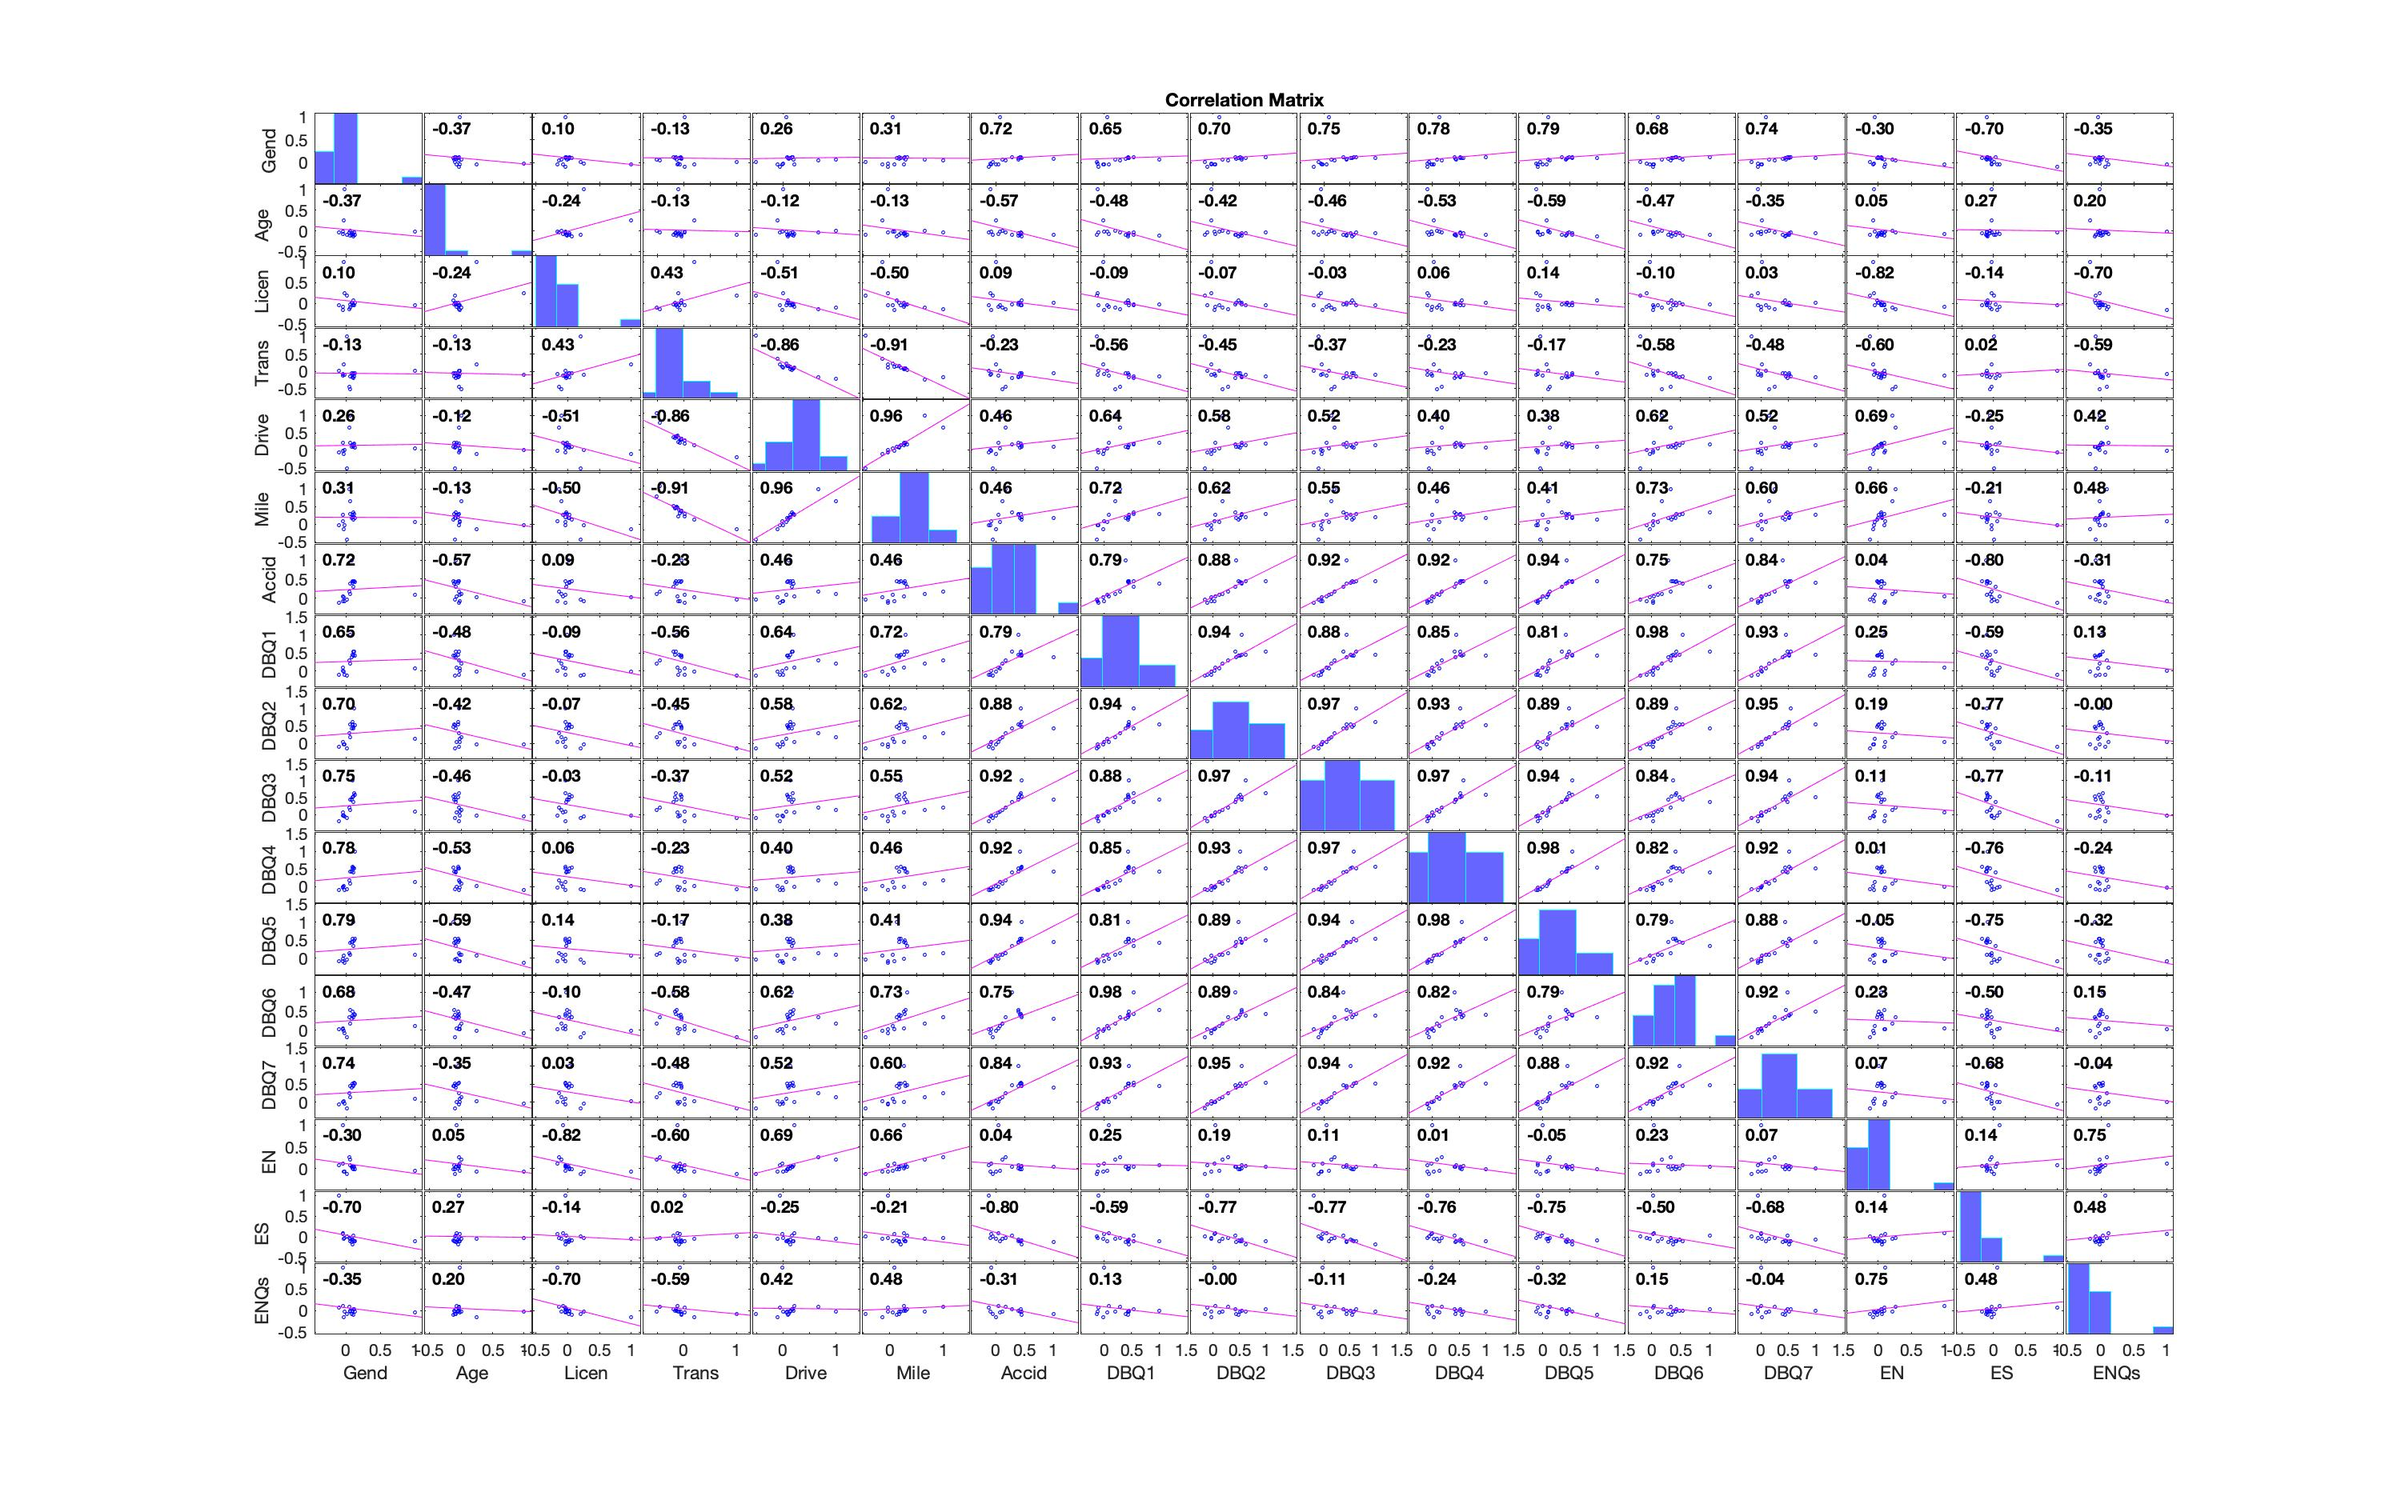
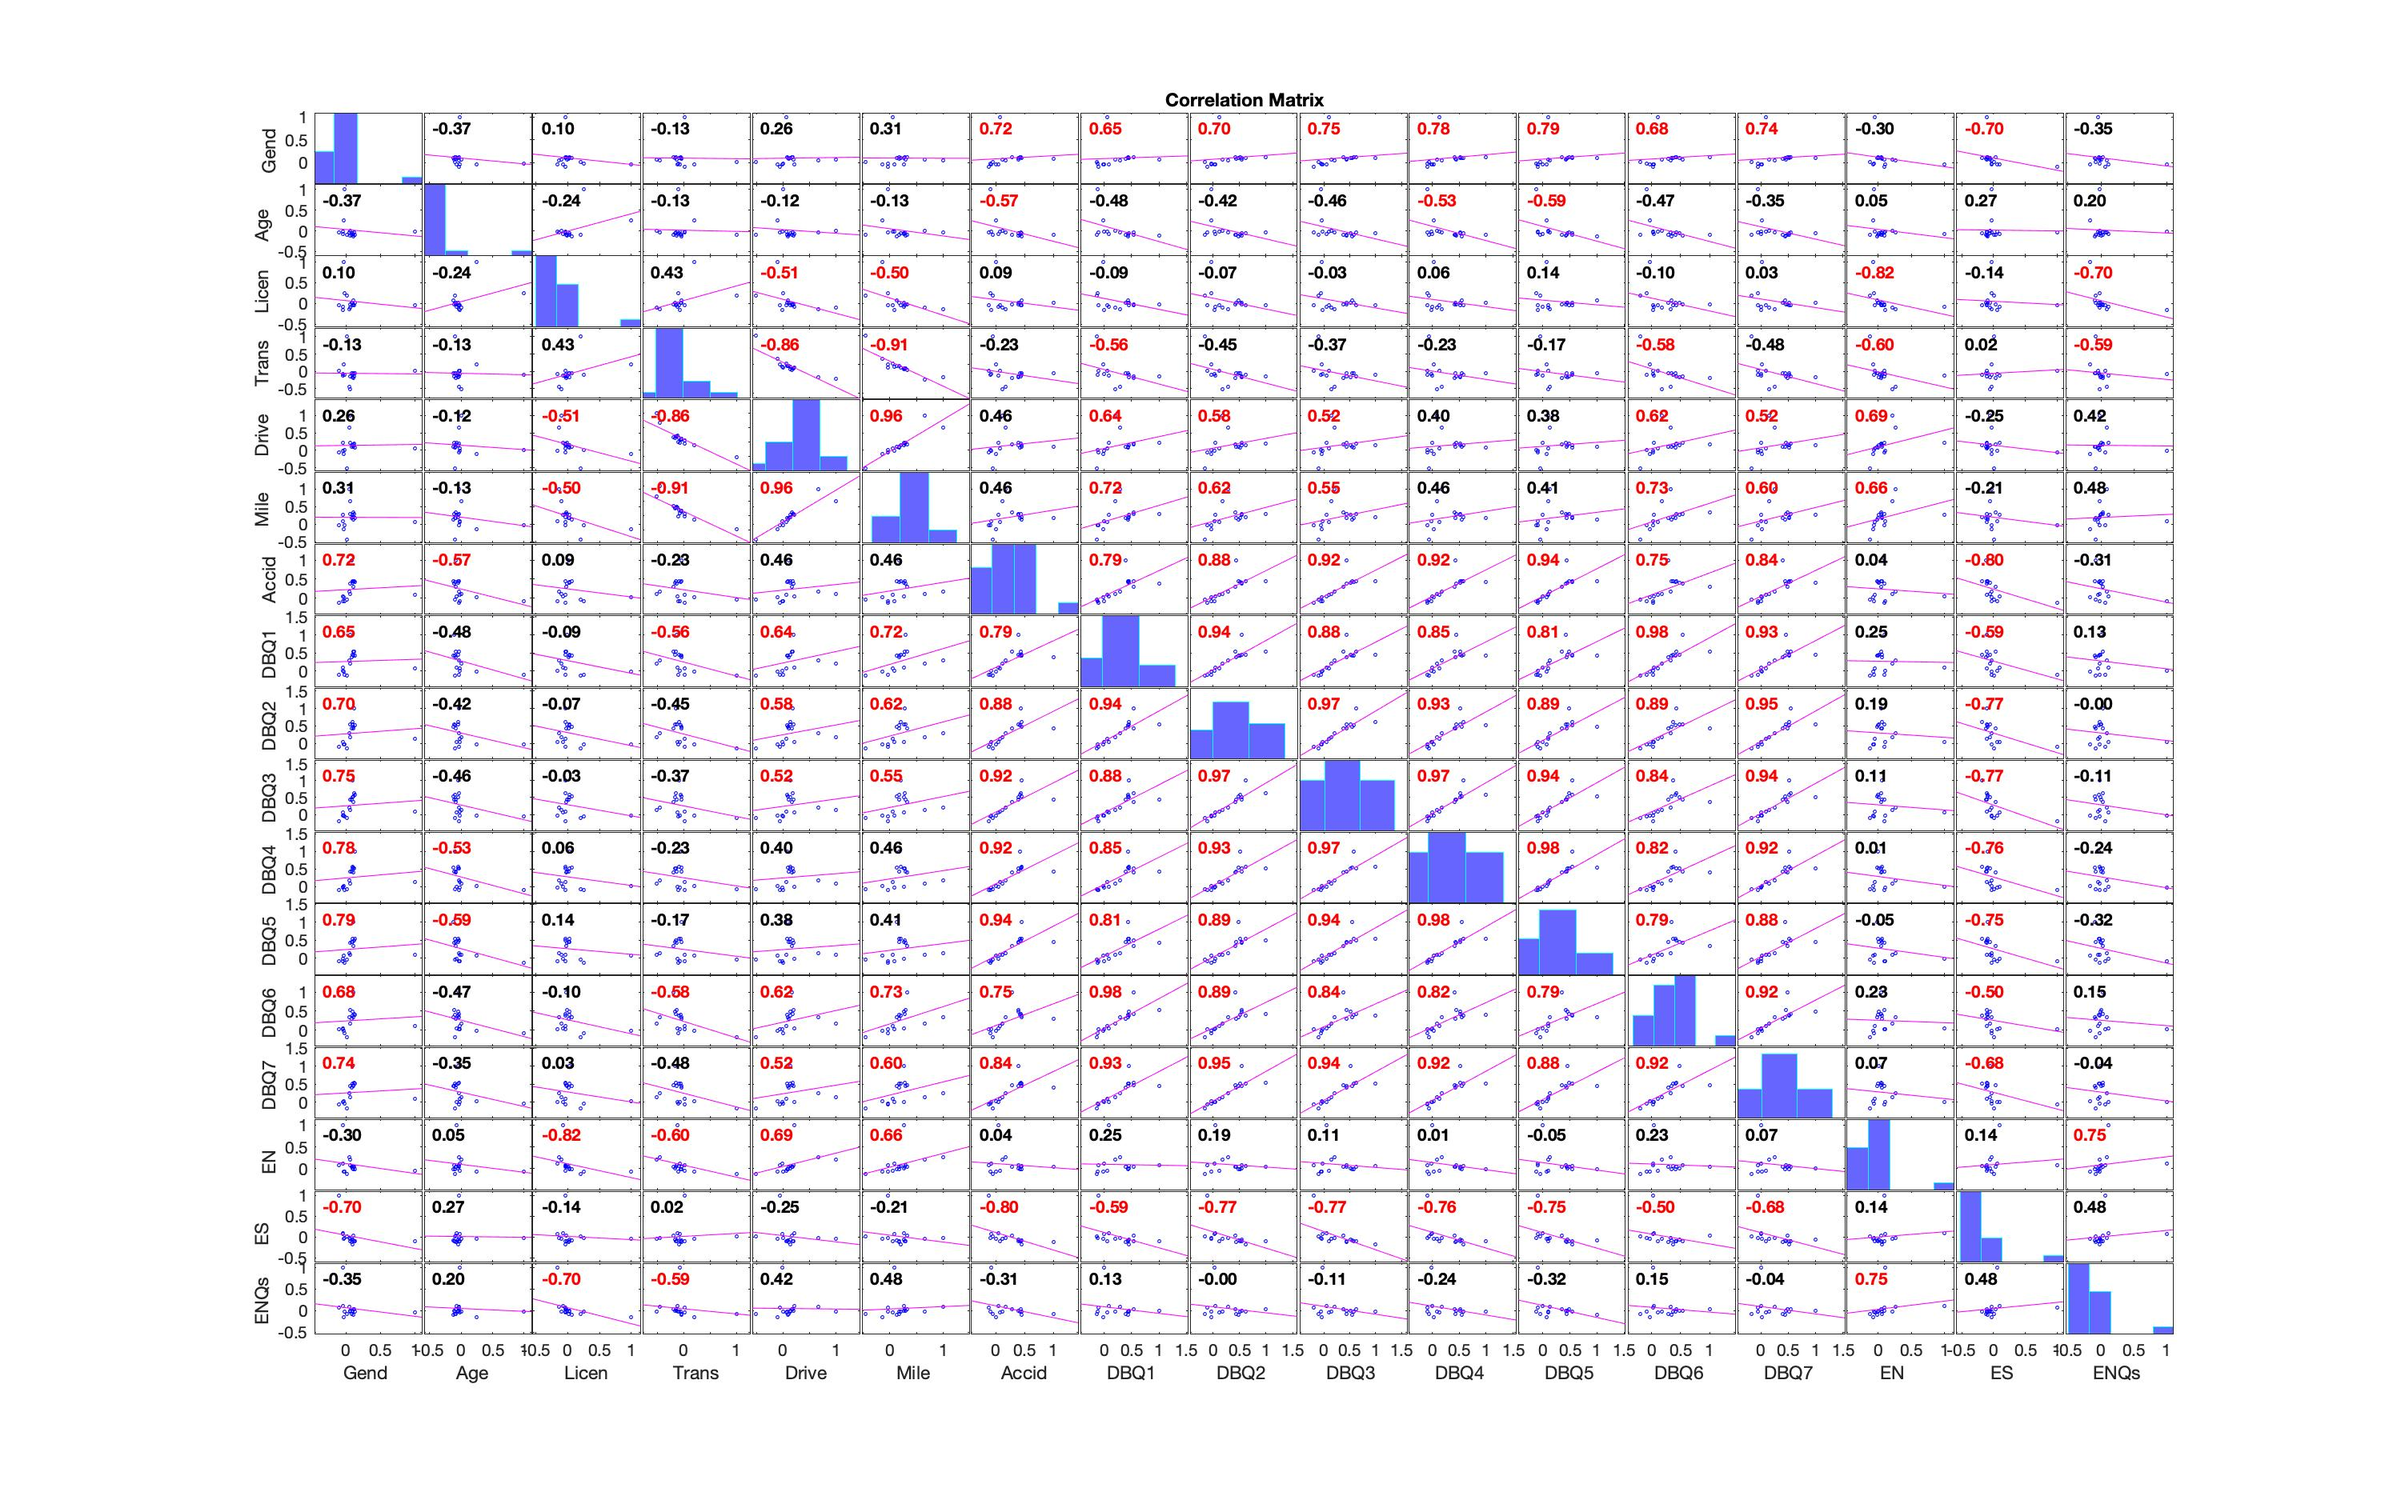
Updated corrplot

diff --git a/textehmi/analysis/analysis.m b/textehmi/analysis/analysis.m
@@ -461,7 +461,8 @@ figure;
 [R,PValue] = corrplot(c_CMATR, ...
                       'type', 'spearman', ...
                       'rows', 'pairwise', ...
-                      'varNames', labels);
+                      'varNames', labels, ...
+                      'testR','on');
 % maximise and export as eps and jpg (for readme)
 if config.save_figures
     export_figure(gcf, [config.path_output filesep 'figures' ...
